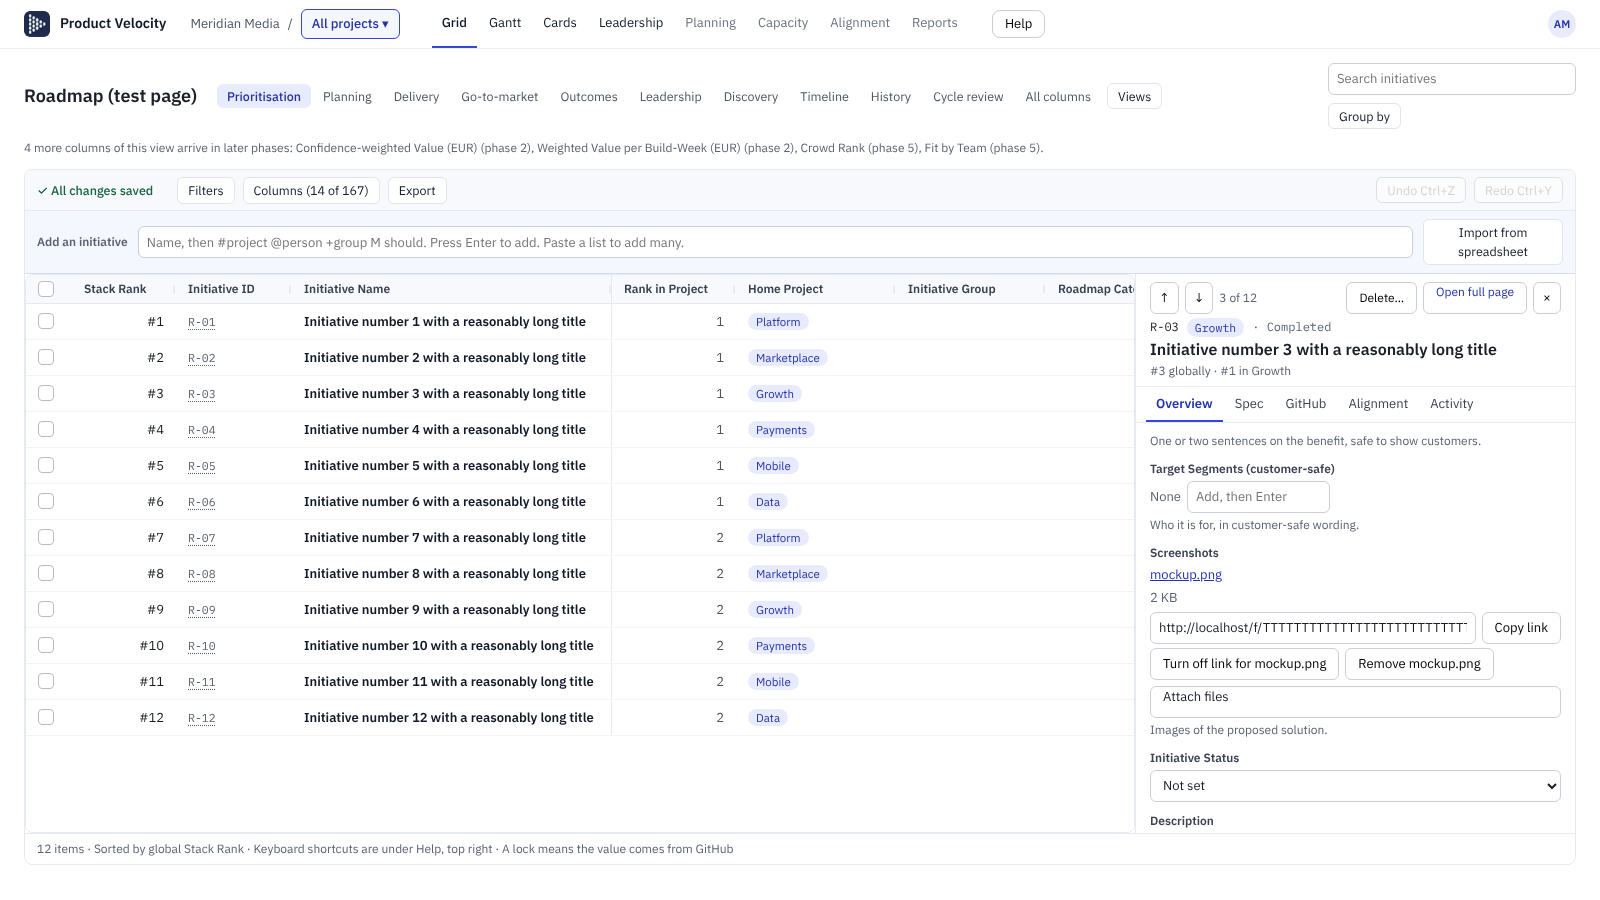
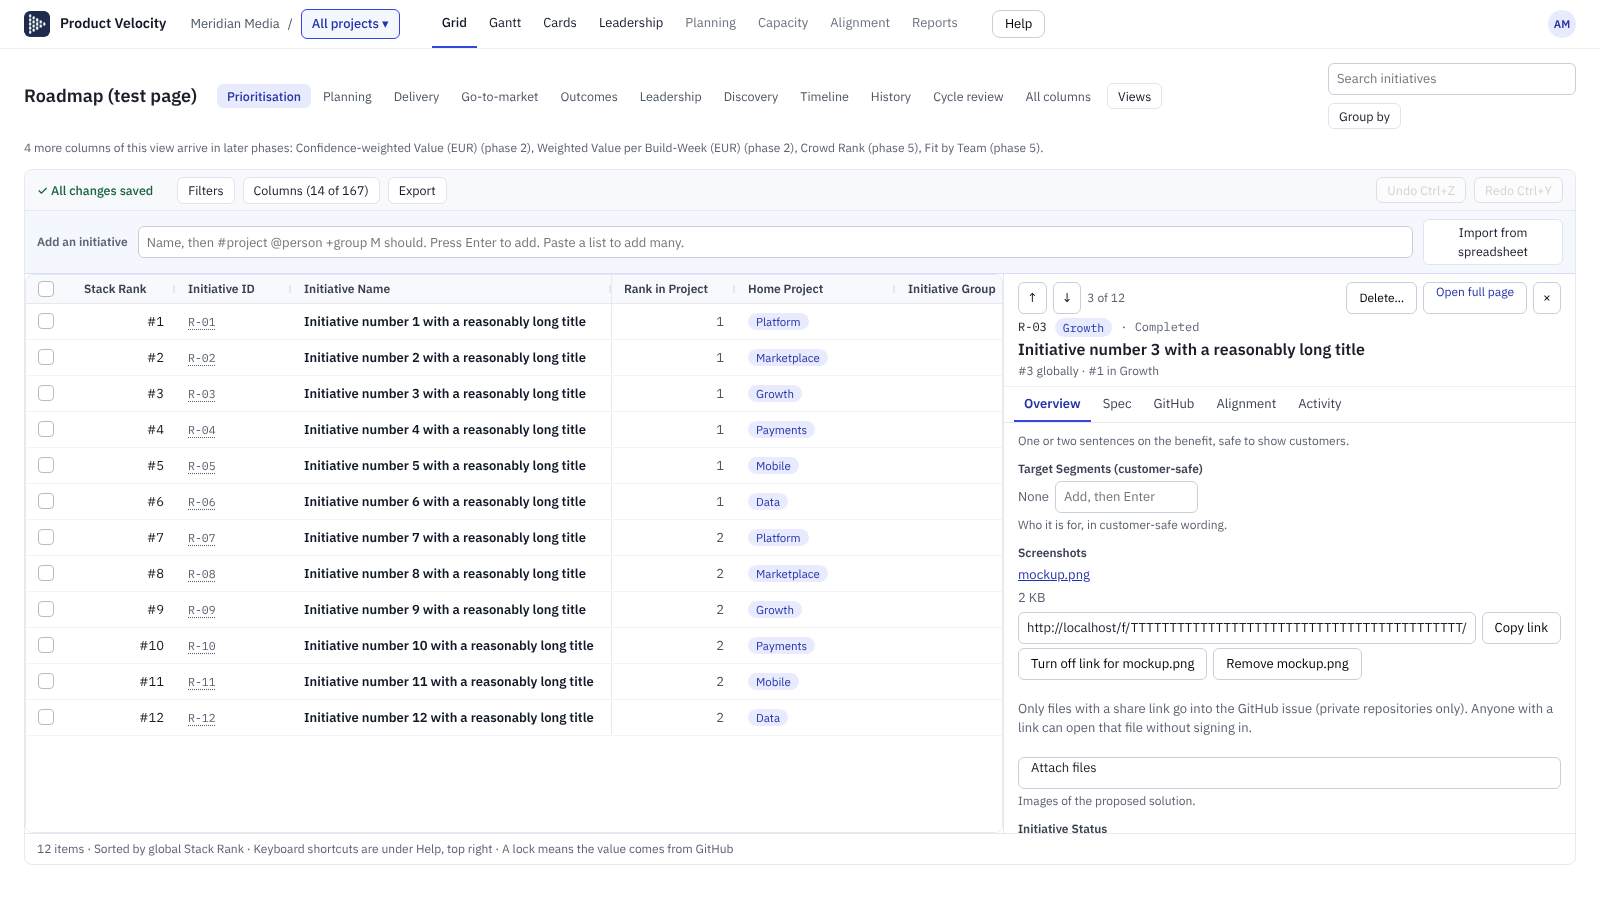
Side panel 30% wider (0.29.1)
Claude-Session: https://claude.ai/code/session_01RLE7CotBaUe74bPtiiRYNc

Changed region(s): [[0.625, 0.3111, 0.9688, 0.9333]]

diff --git a/apps/web/src/styles/globals.css b/apps/web/src/styles/globals.css
@@ -301,7 +301,7 @@ input:not([type="checkbox"]):not([type="hidden"]), select {
 /* ---- item panel (issue #26) ---- */
 .grid-split { display: flex; align-items: stretch; min-width: 0; }
 .grid-split > .grid-wrap { flex: 1 1 auto; min-width: 0; }
-.item-panel { flex: 0 0 440px; width: 440px; max-width: 46vw; display: flex; flex-direction: column; border-left: 1px solid var(--grey-1); background: var(--bg); min-height: 0; }
+.item-panel { flex: 0 0 572px; width: 572px; max-width: 52vw; display: flex; flex-direction: column; border-left: 1px solid var(--grey-1); background: var(--bg); min-height: 0; }
 .item-panel-page { flex: 1 1 auto; width: auto; max-width: 780px; margin: 0 auto; border: 1px solid var(--grey-1); border-radius: 8px; }
 .ip-head { padding: 8px 14px 6px; border-bottom: 1px solid var(--grey-2); }
 .ip-nav { display: flex; align-items: center; gap: 6px; margin-bottom: 4px; }
@@ -343,7 +343,7 @@ input:not([type="checkbox"]):not([type="hidden"]), select {
 .ip-gh { margin-top: 8px; font-size: 12px; }
 .ip-log { list-style: none; margin: 0; padding: 0; display: grid; gap: 10px; }
 .ip-log p { margin: 0; }
-@media (max-width: 900px) { .item-panel { position: fixed; inset: 0 0 0 auto; width: min(440px, 100vw); max-width: 100vw; z-index: 50; box-shadow: -8px 0 24px rgba(20, 24, 40, .18); height: 100vh !important; } }
+@media (max-width: 900px) { .item-panel { position: fixed; inset: 0 0 0 auto; width: min(572px, 100vw); max-width: 100vw; z-index: 50; box-shadow: -8px 0 24px rgba(20, 24, 40, .18); height: 100vh !important; } }
 .cell-open { cursor: pointer; text-decoration: underline dotted; text-underline-offset: 3px; }
 
 /* ---- Gantt (issue #27) ---- */

diff --git a/docs/RELEASES.md b/docs/RELEASES.md
@@ -4,6 +4,7 @@ The version is shown at the bottom of the account menu ("app v0.25.0 · build ab
 
 | Version | Date | Key updates | PRs |
 |---|---|---|---|
+| 0.29.1 | 2026-10-26 | **Wider side panel (Ashu).** The initiative panel is 30% wider (572 px instead of 440 px, at most 52% of the window) so long fields and the file list are easier to read. On narrow screens it is still full width. | this PR |
 | 0.29.0 | 2026-10-26 | **More of the initiative reaches the GitHub issue.** A push now also sets: the **issue type** from Change Type (New feature → *Feature*, Improvement → *Improvement* or *Enhancement*) when your organisation has a matching type, plus a `pv:type/…` label that is always added (so it also works when the organisation has no such type); a **milestone** named after the calendar quarter of the **G2M Date (est)** ("2026 Q4", due on the quarter's last day; created if missing, an item without a date never touches a milestone); and the **Initiative Group** as a `pv:group/…` label. The push preview shows the milestone, and now says when an attached file has no share link and so is not in the issue. The date, type and group are never written as text in the issue. No migration. | this PR |
 | 0.28.0 | 2026-10-26 | **Files on an initiative, with share links.** The item panel's Screenshots field is now a file list: attach PNG, JPEG, GIF, WebP and PDF files (up to 10 MB each, 20 per initiative; the type is read from the file itself, so SVG and HTML are refused). Each file has a **share link** that opens it **without a login**, for people and agents: a long unguessable address you turn on or off per file (turning it off kills the old address; turning it on again makes a new one). When you push to **GitHub**, the links of shared files go into a **Files** section of the issue, **only in private repositories**; for a public repository the preview says they were left out. The files themselves stay in Product Velocity. The GitHub connection check now says whether **live updates** (Issues and Sub-issues events) are switched on, and how to switch them on if not. **Apply migration 0036** (adds columns and a unique index; no DROP). The first upload creates a private storage bucket `item-files` by itself (needs `SUPABASE_SERVICE_ROLE_KEY`, already set). | this PR |
 | 0.27.0 | 2026-10-26 | **Labels on the GitHub issue stay in step.** A push now sets two labels besides the project: your **MoSCoW** (`pv:moscow/must`…) and a **rank band** (`pv:rank/top-10`, `top-25`, `top-50`, `later`: never the exact rank). When they change in Product Velocity, the old label is **removed** and the new one added on the next push. Only labels starting with `pv:` are ever added or removed; labels your team added are never touched. Value, confidence and the numbers never go out. No migration. | this PR |
